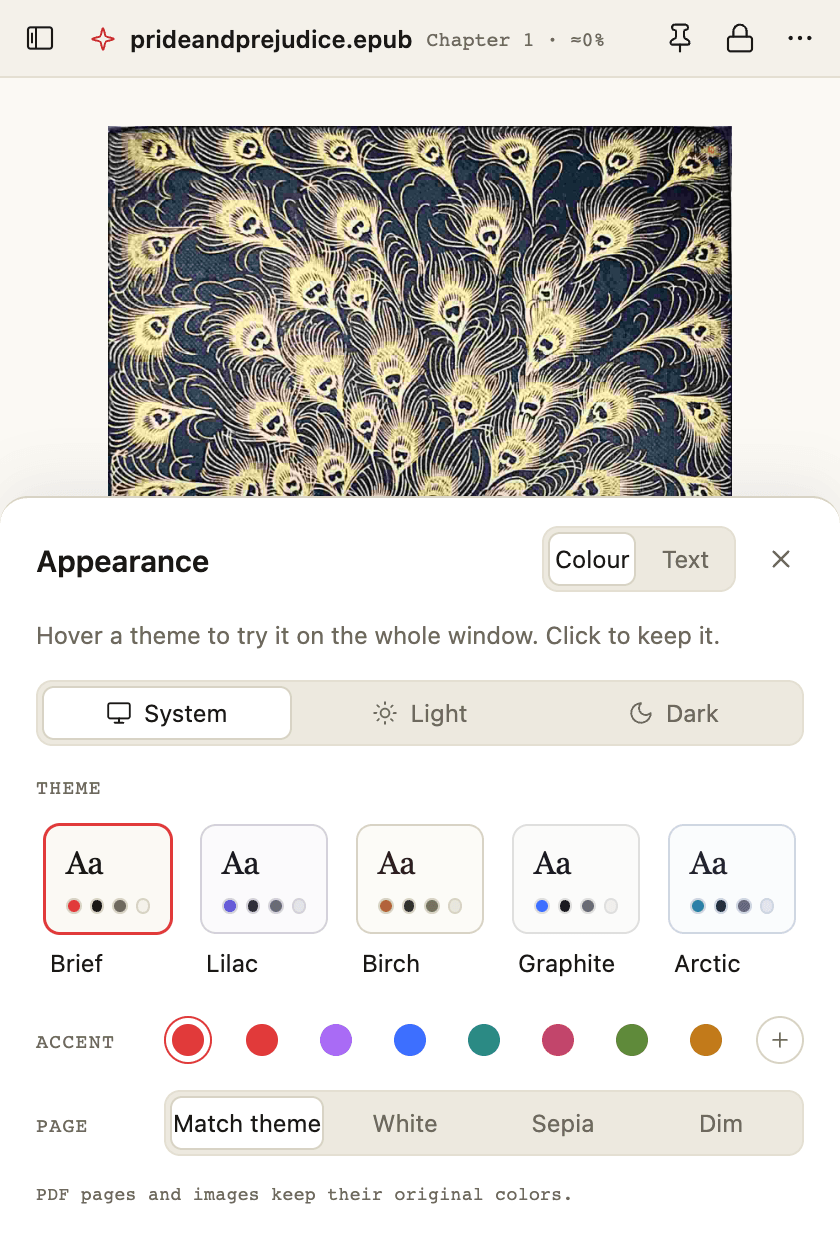
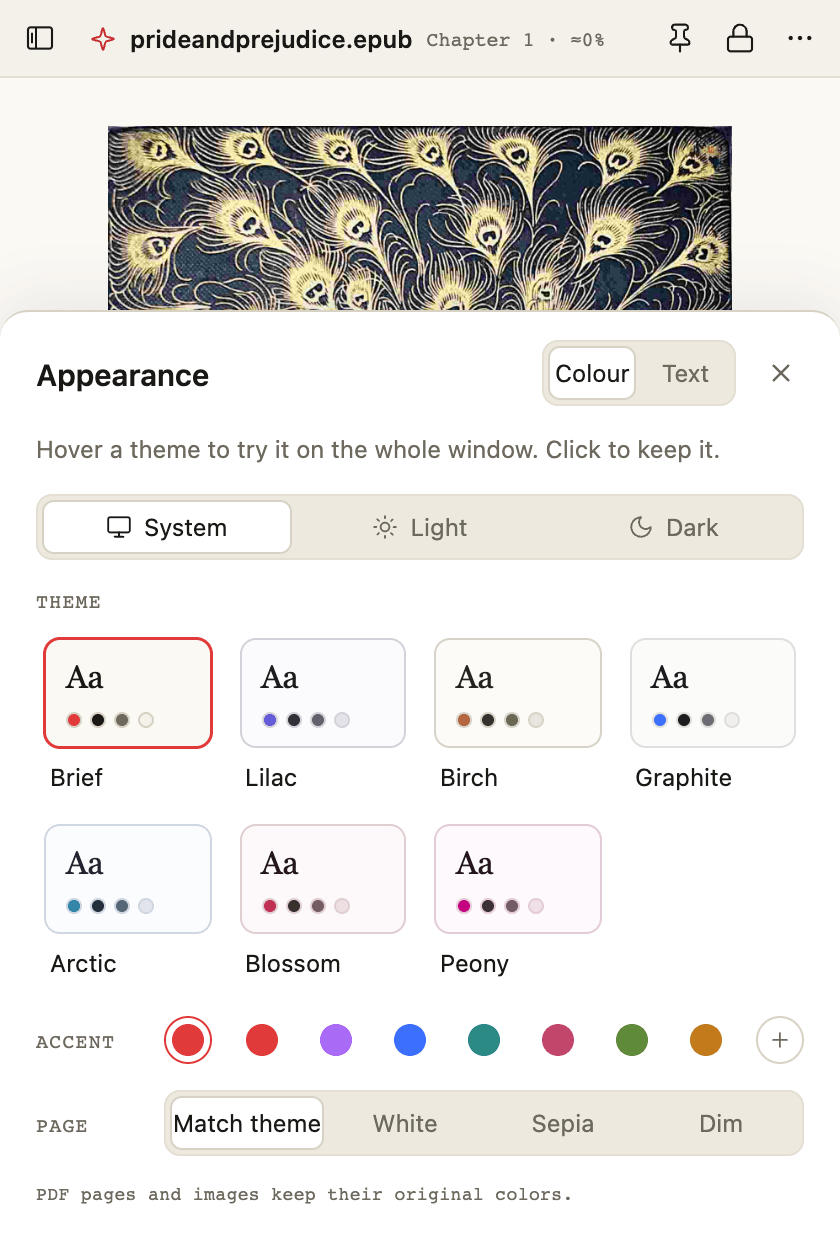
Themes: Blossom and Peony, two pink families
Blossom is soft (blush neutrals, a rose accent); Peony is bold (magenta-tinted neutrals, a hot-pink
accent, deep aubergine in dark mode). Both are built on Lilac's structure, each token at Lilac's
OKLCH lightness on a pink hue, so they inherit its contrast; the palette contrast test covers them
in both modes. The picker lays seven families out in rows of four (4 + 3), the assistant's theme
list is taken from the palette list, and the README theme strip and other media are reshot.

diff --git a/src/style.css b/src/style.css
@@ -118,6 +118,53 @@
   --scrim: light-dark(#1a26333d, #0000008c);
   --search-hit: light-dark(#c9e0a8, #3d5230);
 }
+/* The two pinks share Lilac's structure (each token at Lilac's OKLCH lightness) on a pink hue.
+   Blossom is soft: blush neutrals and a rose accent. Peony is bold: magenta-tinted neutrals and a
+   hot-pink accent, deep aubergine in dark mode. */
+[data-palette='blossom'] {
+  --chrome: light-dark(#ede0e1, #1e1415);
+  --surface: light-dark(#fdf9fa, #271a1c);
+  --card: light-dark(#ffffff, #2e2022);
+  --paper: light-dark(#fdf9fa, #271a1c);
+  --ink: light-dark(#25181a, #ecd7d9);
+  --fg: light-dark(#3c2c2e, #f2e3e5);
+  --muted: light-dark(#735d60, #ad9195);
+  --faint: light-dark(#b9a1a4, #6f5659);
+  --border: light-dark(#e0ced0, #3d2a2c);
+  --hairline: light-dark(#e9d8da, #332325);
+  --hover: light-dark(#ecd4d6, #372426);
+  --stage: light-dark(#f5ebec, #231618);
+  --track: light-dark(#dbc1c4, #4a3135);
+  --accent: light-dark(#c03153, #e16479);
+  --accent-ink: light-dark(#ab1c44, #f899a5);
+  --accent-soft: light-dark(#ffe7e9, #3e1d22);
+  --accent-border: light-dark(#eeb2b8, #7b333f);
+  --accent-fill: light-dark(#c03153, #c33d59);
+  --scrim: light-dark(#2a181c3d, #0000008c);
+  --search-hit: light-dark(#ffe08a, #6f5a1e);
+}
+[data-palette='peony'] {
+  --chrome: light-dark(#f0dee7, #20121a);
+  --surface: light-dark(#fef9fc, #291822);
+  --card: light-dark(#ffffff, #311d28);
+  --paper: light-dark(#fef9fc, #291822);
+  --ink: light-dark(#271620, #f0d4e3);
+  --fg: light-dark(#3f2935, #f5e1eb);
+  --muted: light-dark(#775a6a, #b28da1);
+  --faint: light-dark(#be9daf, #745164);
+  --border: light-dark(#e4cbd8, #412635);
+  --hairline: light-dark(#edd5e1, #361f2c);
+  --hover: light-dark(#f1d0e1, #3b202f);
+  --stage: light-dark(#f7eaf1, #25141e);
+  --track: light-dark(#e0bdd0, #4f2c40);
+  --accent: light-dark(#c50381, #ee45a6);
+  --accent-ink: light-dark(#a9036f, #fe8dc6);
+  --accent-soft: light-dark(#ffe6f1, #42172e);
+  --accent-border: light-dark(#f6a9cd, #832159);
+  --accent-fill: light-dark(#c50381, #cd0087);
+  --scrim: light-dark(#2a16203d, #0000008c);
+  --search-hit: light-dark(#ffe08a, #6f5a1e);
+}
 /* Page tones recolor only text documents (Markdown, TXT, reflowable EPUB). */
 [data-page='white'] { --paper: #ffffff; --ink: #1b1b1f; }
 [data-page='sepia'] { --paper: light-dark(#f5eddb, #2a2419); --ink: light-dark(#43361f, #e2d4b6); }
@@ -403,7 +450,8 @@ dd { margin: 0; color: var(--muted); }
 .segmented button[aria-checked=true] { background: var(--card); border-color: var(--border); color: var(--fg); }
 .segmented button:focus-visible { outline-offset: -1px; }
 .theme-group { display: flex; flex-direction: column; gap: 8px; }
-.theme-row { display: grid; grid-template-columns: repeat(5, minmax(0, 1fr)); gap: 6px; }
+/* Seven families in rows of four (4 + 3): seven across would not fit the sheet, and 5 + 2 orphans two. */
+.theme-row { display: grid; grid-template-columns: repeat(4, minmax(0, 1fr)); gap: 6px; }
 .theme-card { display: flex; flex-direction: column; gap: 7px; min-width: 0; padding: 3px; border-radius: 11px; text-align: left; white-space: normal; }
 .theme-card:hover { background: transparent; }
 .theme-tile { display: flex; flex-direction: column; gap: 8px; padding: 9px 10px; background: var(--surface); border: 1px solid var(--border); border-radius: 8px; }

diff --git a/src/assistant.ts b/src/assistant.ts
@@ -2,6 +2,7 @@ import type { LibraryDocument } from './catalog-types';
 import type { LibraryFilterResult } from './library';
 import type { SearchHit, SearchOptions } from './search';
 import type { OutlineItem } from './types';
+import { palettes } from './theme';
 
 /**
  * The opt-in assistant: Claude, through the user's own Anthropic API key, finding and changing
@@ -229,8 +230,8 @@ export function readerTools(env: ReaderEnvironment): Tool[] {
       },
     },
     {
-      name: 'set_appearance', description: 'Changes how the reader looks. mode: system, light or dark. theme: brief, lilac, birch, graphite or arctic. page (text documents only): theme, white, sepia or dim.',
-      input_schema: { type: 'object', properties: { mode: { type: 'string', enum: ['system', 'light', 'dark'] }, theme: { type: 'string', enum: ['brief', 'lilac', 'birch', 'graphite', 'arctic'] }, page: { type: 'string', enum: ['theme', 'white', 'sepia', 'dim'] } } },
+      name: 'set_appearance', description: `Changes how the reader looks. mode: system, light or dark. theme: ${palettes.join(', ')} (blossom and peony are the pink ones). page (text documents only): theme, white, sepia or dim.`,
+      input_schema: { type: 'object', properties: { mode: { type: 'string', enum: ['system', 'light', 'dark'] }, theme: { type: 'string', enum: [...palettes] }, page: { type: 'string', enum: ['theme', 'white', 'sepia', 'dim'] } } },
       run: async input => {
         const summary = env.setAppearance({ mode: input.mode as string | undefined, theme: input.theme as string | undefined, page: input.page as string | undefined });
         return { result: { appearance: summary }, step: `Appearance: ${summary}` };

diff --git a/src/appearance.ts b/src/appearance.ts
@@ -2,7 +2,7 @@ import { appearance, applyAppearance, palettes, readingColors, rgbToHex, saveApp
 
 const icon = (size: number, body: string) => `<svg width="${size}" height="${size}" viewBox="0 0 24 24" fill="none" stroke="currentColor" stroke-width="1.75" stroke-linecap="round" stroke-linejoin="round" aria-hidden="true">${body}</svg>`;
 export const paletteIcon = icon(14, '<circle cx="13.5" cy="6.5" r=".5" fill="currentColor"/><circle cx="17.5" cy="10.5" r=".5" fill="currentColor"/><circle cx="8.5" cy="7.5" r=".5" fill="currentColor"/><circle cx="6.5" cy="12.5" r=".5" fill="currentColor"/><path d="M12 2C6.5 2 2 6.5 2 12s4.5 10 10 10c.93 0 1.65-.75 1.65-1.69 0-.44-.18-.84-.44-1.13-.29-.29-.44-.65-.44-1.13a1.64 1.64 0 0 1 1.67-1.67h2c3.05 0 5.55-2.5 5.55-5.55C21.97 6.01 17.46 2 12 2z"/>');
-const names: Record<Palette, string> = { brief: 'Brief', lilac: 'Lilac', birch: 'Birch', graphite: 'Graphite', arctic: 'Arctic' };
+const names: Record<Palette, string> = { brief: 'Brief', lilac: 'Lilac', birch: 'Birch', graphite: 'Graphite', arctic: 'Arctic', blossom: 'Blossom', peony: 'Peony' };
 const modes: [AppearanceMode, string, string][] = [
   ['system', 'System', icon(13, '<rect width="20" height="14" x="2" y="3" rx="2"/><path d="M8 21h8m-4-4v4"/>')],
   ['light', 'Light', icon(13, '<circle cx="12" cy="12" r="4"/><path d="M12 2v2m0 16v2M4.93 4.93l1.41 1.41m11.32 11.32 1.41 1.41M2 12h2m16 0h2M6.34 17.66l-1.41 1.41M19.07 4.93l-1.41 1.41"/>')],

diff --git a/src/theme.ts b/src/theme.ts
@@ -13,14 +13,14 @@ import { desktop } from './bridge';
  * the record's format (`mode`, `palette`, `accent`, `page`, and the derived `vars`).
  */
 export type AppearanceMode = 'system' | 'light' | 'dark';
-export type Palette = 'brief' | 'lilac' | 'birch' | 'graphite' | 'arctic';
+export type Palette = 'brief' | 'lilac' | 'birch' | 'graphite' | 'arctic' | 'blossom' | 'peony';
 export type PageTone = 'theme' | 'white' | 'sepia' | 'dim';
 export type Scheme = 'light' | 'dark';
 export type Appearance = { mode: AppearanceMode; palette: Palette; accent: string | null; page: PageTone };
 export type Rgb = [number, number, number];
 
 export const appearanceKey = 'hold-my-brief:appearance';
-export const palettes: readonly Palette[] = ['brief', 'lilac', 'birch', 'graphite', 'arctic'];
+export const palettes: readonly Palette[] = ['brief', 'lilac', 'birch', 'graphite', 'arctic', 'blossom', 'peony'];
 export const pageTones: readonly PageTone[] = ['theme', 'white', 'sepia', 'dim'];
 export const defaultAppearance: Appearance = { mode: 'system', palette: 'brief', accent: null, page: 'theme' };
 const accentTokens = ['--accent', '--accent-ink', '--accent-fill', '--accent-fill-hover', '--accent-soft', '--accent-soft-hover', '--accent-border'] as const;

diff --git a/README.md b/README.md
@@ -82,7 +82,7 @@ computer.
       <h3>Fits your space</h3>
       One slim toolbar, and a footer that is only a progress line until you reach for it, leave the
       page 94% of the window; a pinned reader's controls fade while you work in another app. Light and dark modes that
-      follow your system, five theme families (Brief by default), your own accent color, and a page
+      follow your system, seven theme families (Brief by default, two of them pink), your own accent color, and a page
       tone for text. Hover a theme to preview it on the whole window.
     </td>
   </tr>
@@ -117,8 +117,8 @@ computer.
 </p>
 
 <p align="center">
-  <img src="docs/media/themes.png" alt="The opening of Pride and Prejudice in the Brief, Lilac, Birch, Graphite and Arctic themes" width="880">
-  <br><sub><b>Five theme families</b>, each with a light and a dark version. Brief is the default</sub>
+  <img src="docs/media/themes.png" alt="The opening of Pride and Prejudice in the Brief, Lilac, Birch, Graphite, Arctic, Blossom and Peony themes" width="880">
+  <br><sub><b>Seven theme families</b>, each with a light and a dark version, two of them pink. Brief is the default</sub>
 </p>
 
 ## Private by design

diff --git a/docs/user-guide.md b/docs/user-guide.md
@@ -41,7 +41,9 @@ Open the menu and choose **Appearance and text…** to open the Appearance panel
 window. Its **Colour** tab holds:
 
 - **Mode:** System (default; follows the operating system as it changes), Light or Dark.
-- **Theme:** Brief (default), Lilac, Birch, Graphite or Arctic. Each has a light and a dark version.
+- **Theme:** Brief (default), Lilac, Birch, Graphite, Arctic, and two pinks: Blossom (soft blush with a
+  rose accent) and Peony (bold, magenta-tinted, deep aubergine in dark mode). Each has a light and a
+  dark version, and every one keeps its text at WCAG AA contrast or better.
   Hover over or focus a theme to preview it on the whole window, click or press Enter to keep it, and
   move away or press Escape to go back to the theme you kept.
 - **Accent:** the theme's own accent, one of seven presets, or a custom color. Contrast is adjusted
